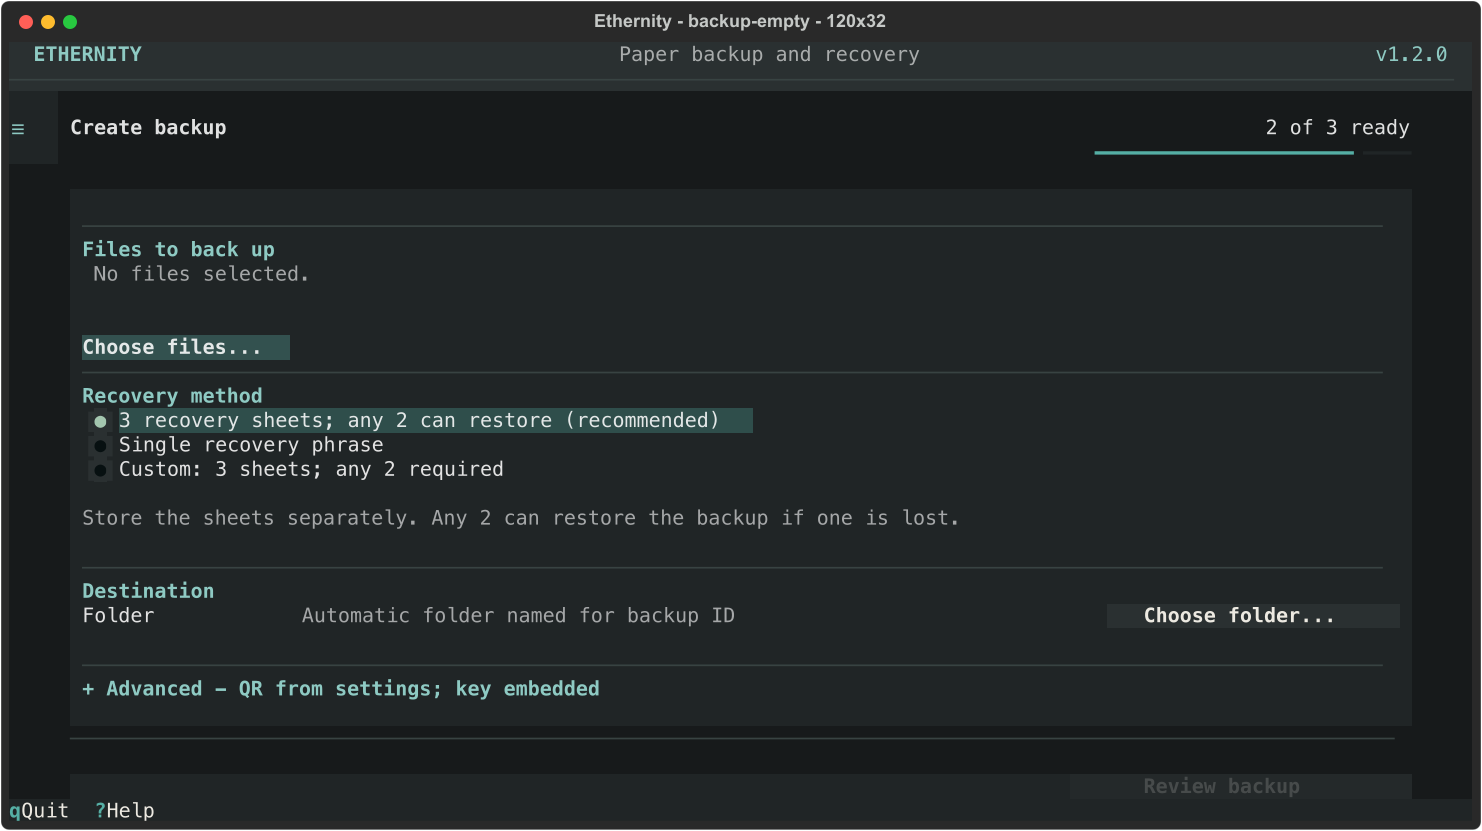
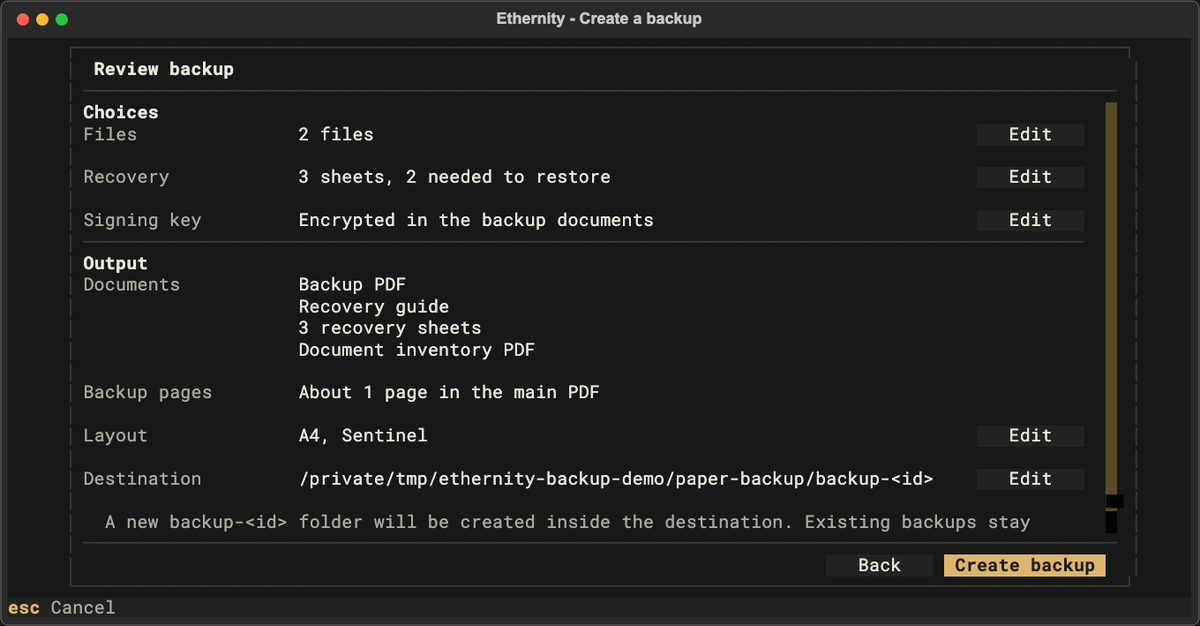
docs: add backup walkthrough and paper capacity examples

diff --git a/README.md b/README.md
@@ -10,10 +10,13 @@ No account or online service is required.
 Use it for seed phrases, private keys, certificates, and configuration files.
 
 <p align="center">
-  <a href="images/readme/terminal_app_preview.svg">
-    <img src="images/readme/terminal_app_preview.svg" alt="Creating a backup in Ethernity" width="900">
+  <a href="images/readme/backup_flow.gif">
+    <img src="images/readme/backup_flow.gif" alt="Creating a backup: select files, choose recovery settings, review the PDFs, and test recovery" width="900">
   </a>
 </p>
+
+Recorded with demonstration files, including a successful recovery check of the generated PDFs.
+[View a static preview](images/readme/terminal_app_preview.png).
 
 ## What you keep
 
@@ -26,8 +29,30 @@ Ethernity creates two kinds of pages:
 To restore, you need the backup pages and enough recovery sheets, or the passphrase itself.
 Keep the recovery sheets in separate places, apart from the backup pages.
 
-A standalone backup supports up to 2,048 files and 1 MiB of encrypted data. The size limit applies
-after compression and encryption.
+## How much fits on paper?
+
+A recovery phrase or short note is usually well under 1 KB. A collection of keys, certificates,
+or configuration files can take several pages. Photos and large archives quickly become
+impractical to print and scan.
+
+For a single file that does not shrink with compression, the default Sentinel design on A4 gives
+these examples:
+
+| File size | QR backup pages | Pages if you print the complete set |
+| --- | --- | --- |
+| 1 KB | 1 | 8 |
+| 10 KB | 3 | 19 |
+| 100 KB | 23 | 121 |
+
+The complete set includes the text fallback, three recovery sheets, and an inventory. A printed
+browser recovery kit is extra. Text often compresses well, so your files may need fewer pages;
+the paper size and design also affect the count. The app estimates QR pages before you create
+the backup and reports the total page count afterwards.
+
+A standalone backup supports up to 2,048 files and 1 MiB of encrypted data, roughly 1 MB after
+compression and encryption. That is a size ceiling, not a recommended amount to print.
+See [capacity and page counts](https://github.com/MinorGlitch/ethernity/wiki/Capacity-and-page-counts)
+for compression examples, other paper sizes, and how to check your own files.
 
 ## Install
 

diff --git a/README_PYPI.md b/README_PYPI.md
@@ -8,6 +8,16 @@ conventional backup system for large archives, continuous sync, or unattended jo
 A standalone backup is limited to **1 MiB of ciphertext** and **2,048 recovered files**.
 Updated backups also have chain-wide limits.
 
+## How much fits on paper?
+
+A recovery phrase or short note usually fits on one QR page. With the default Sentinel design
+on A4, a 10 KB file that does not compress takes 3 QR pages, or 19 pages if you print the text
+fallback, recovery sheets, and inventory too. Text often compresses well; photos and ZIP files
+usually shrink little. The 1 MiB limit is a ceiling, not a recommended amount to print.
+
+See [capacity and page counts](https://github.com/MinorGlitch/ethernity/wiki/Capacity-and-page-counts)
+for more examples and how to check your files before printing.
+
 ## Installation
 
 Install Ethernity in an isolated environment. With [uv](https://docs.astral.sh/uv/getting-started/installation/):
